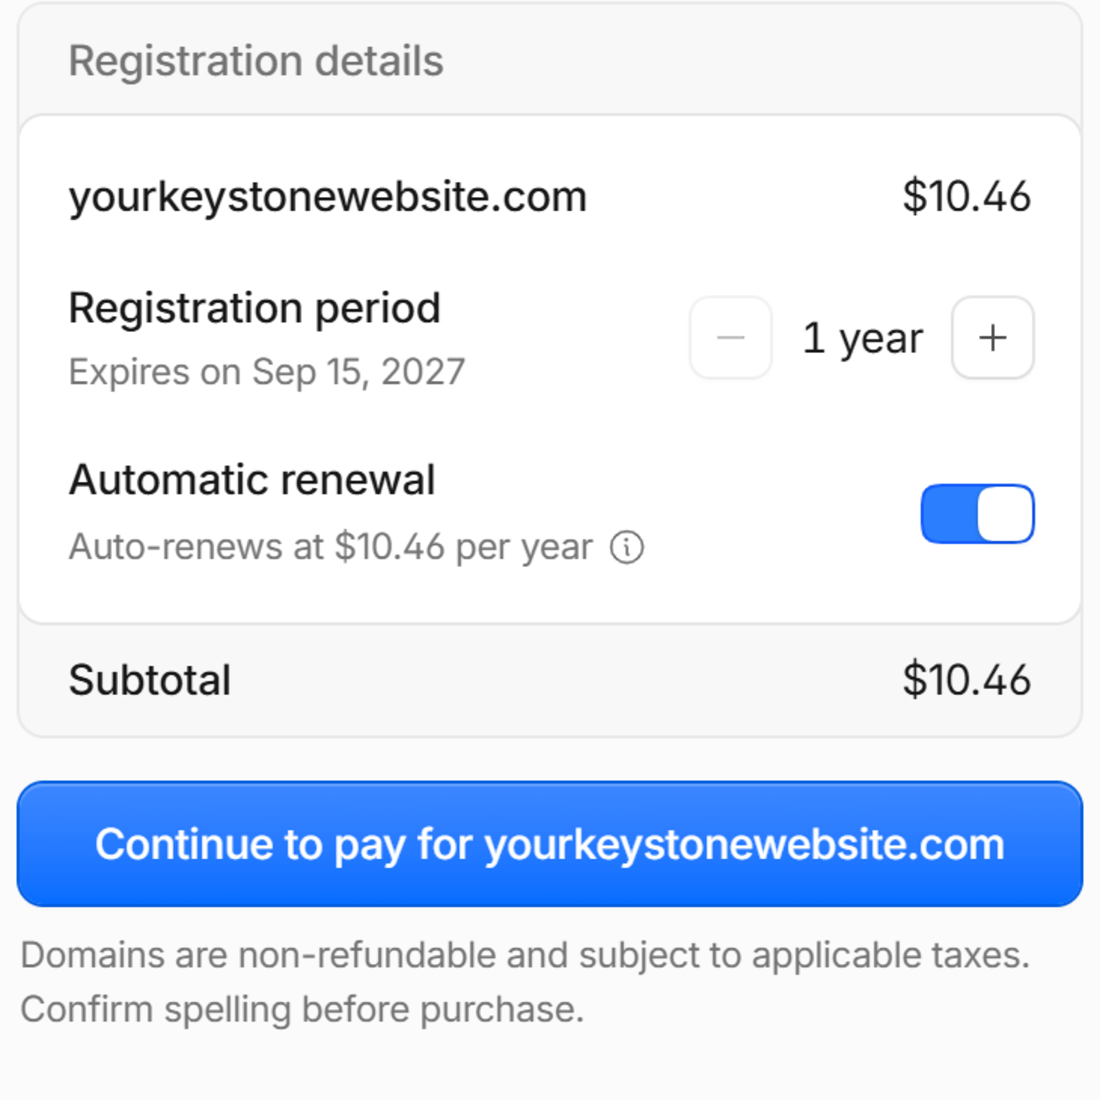
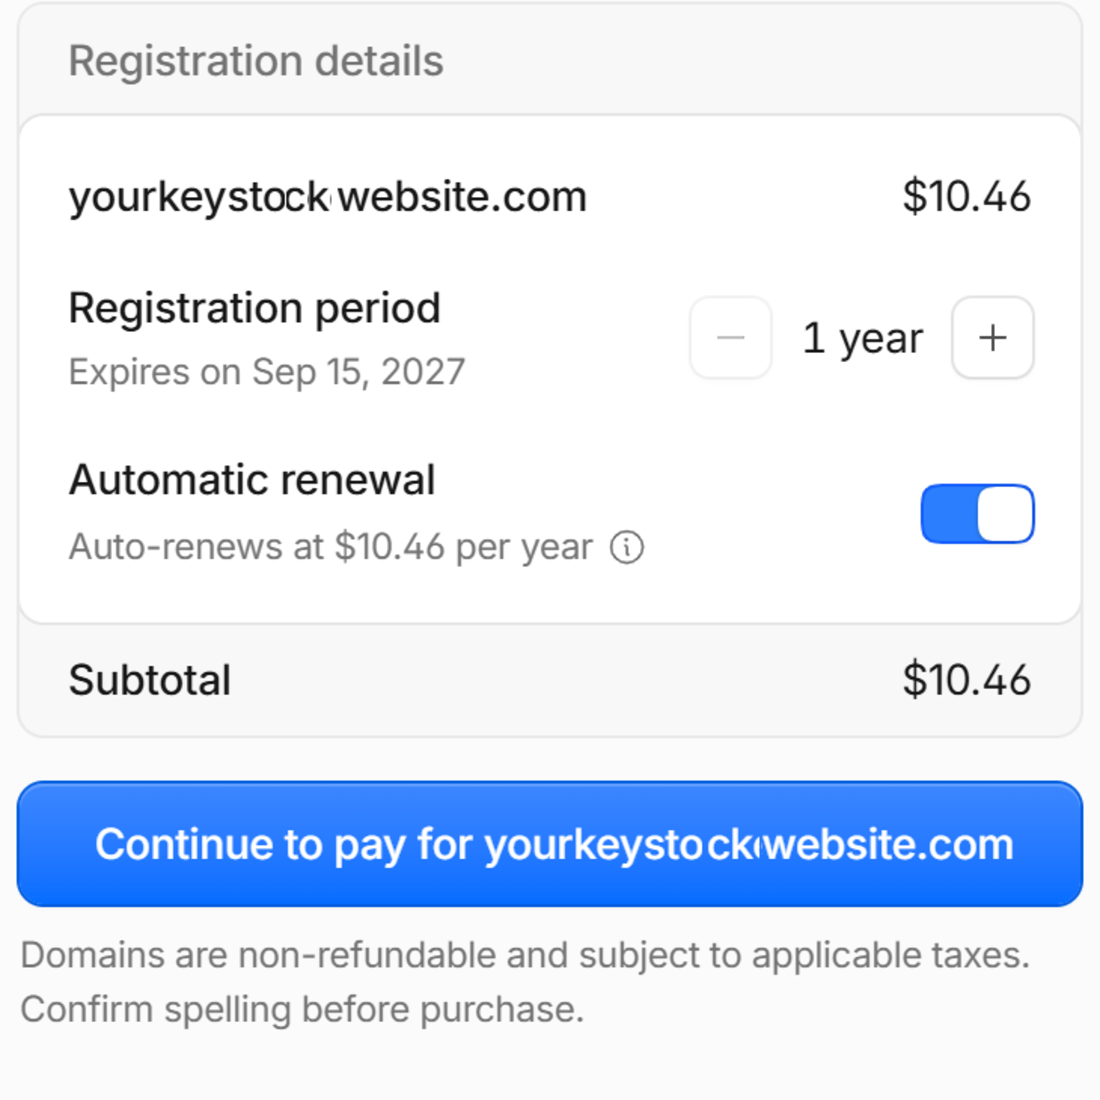
Correct the domain typo in the screenshots

Changed region(s): [[0.6491, 0.7418, 0.9273, 0.8036], [0.2473, 0.1545, 0.3091, 0.2164]]

diff --git a/guide/index.html b/guide/index.html
@@ -693,17 +693,17 @@
             <h3>Open Members, and start an invitation</h3>
             <figure class="shot shot--wide">
               <div class="shot__scroll"><div class="shot__wrap">
-                <img src="shots/members.png" width="1320" height="389" loading="lazy"
-                     alt="The Members page, reached from Manage Account, listing one member and showing a blue Invite members button.">
+                <img src="shots/members.png" width="1320" height="346" loading="lazy"
+                     alt="The Members page, reached from Manage Account, listing the members on the account and showing a blue Invite members button.">
                 <b class="shot__box" data-n="1" style="--x:1.5%;--y:4%;--w:21.5%;--h:11%"></b>
-                <b class="shot__box" data-n="2" style="--x:84%;--y:46%;--w:12.5%;--h:13%"></b>
+                <b class="shot__box" data-n="2" style="--x:83.5%;--y:51%;--w:13.5%;--h:15%"></b>
               </div></div>
               <ol class="shot__key">
                 <li>Top left of the dashboard: <strong>Manage Account</strong>, then
                   <strong>Members</strong>.</li>
                 <li>Then the blue <strong>Invite members</strong> button.</li>
               </ol>
-              <figcaption>The one member already listed is you.</figcaption>
+              <figcaption>The members already listed are you, and us once the invitation is accepted.</figcaption>
             </figure>
           </li>
 
@@ -865,14 +865,16 @@
 
         <figure class="shot shot--wide">
           <div class="shot__scroll"><div class="shot__wrap">
-            <img src="shots/members-menu.png" width="1320" height="406" loading="lazy"
-                 alt="The members list with two members, and a three-dot button at the end of each row.">
-            <b class="shot__box" data-n="1" style="--x:92%;--y:89%;--w:4.5%;--h:9%"></b>
+            <img src="shots/members-menu.png" width="1320" height="289" loading="lazy"
+                 alt="The members list with the three-dot menu open, showing View and edit permission policies, Manage member settings, and Remove member in red.">
+            <b class="shot__box" data-n="1" style="--x:93%;--y:24%;--w:3.5%;--h:14%"></b>
+            <b class="shot__box" data-n="2" style="--x:74.5%;--y:69%;--w:14%;--h:17%"></b>
           </div></div>
           <ol class="shot__key">
-            <li>Back on the Members page, find <strong>our</strong> row — not yours — and
-              click the <strong>three dots</strong> at the end of it. Choose the option to
-              remove us.</li>
+            <li>Find <strong>our</strong> row — not yours — and click the
+              <strong>three dots</strong> at the end of it.</li>
+            <li><strong>Remove member.</strong> It is the red one at the bottom of the
+              menu, and red here only means permanent, not dangerous.</li>
           </ol>
           <figcaption>Nothing breaks when you do this. Your site keeps running exactly as
             it is, because what you are removing is our permission to change it, not
